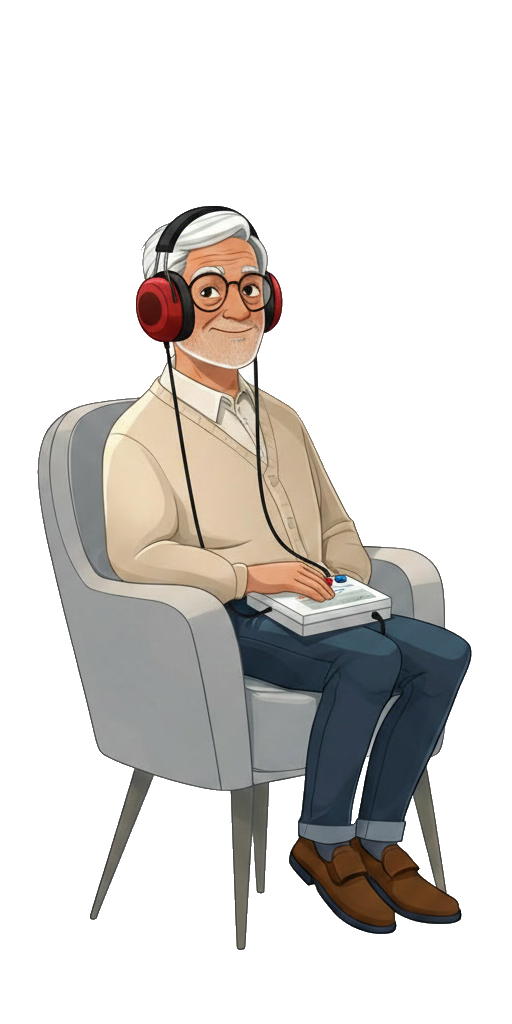
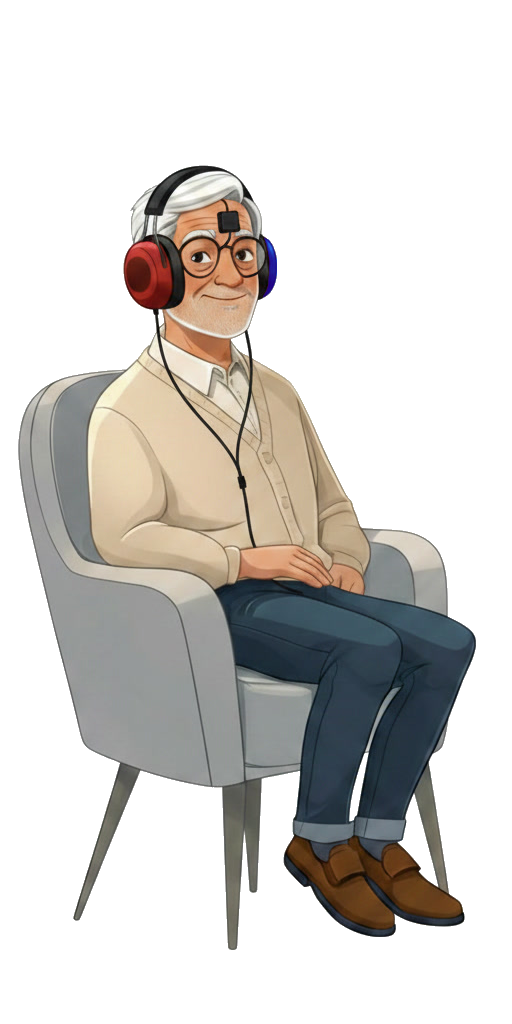
Force Bad Choice in Tuto
+ Michel Weber Image

Changed region(s): [[0.0312, 0.1562, 0.9375, 0.9375], [0.125, 0.75, 0.3125, 0.9062], [0.8438, 0.6875, 0.875, 0.75]]

diff --git a/Assets/Scripts/Managers/StepManager.cs b/Assets/Scripts/Managers/StepManager.cs
@@ -63,9 +63,9 @@ namespace Managers{
 
         // Enums
         private enum InteractionState{
-            Isreading,
-            Isanswering,
-            Iscorrection
+            IsReading,
+            IsAnswering,
+            IsCorrection
         };
 
         private InteractionState _interactionState;
@@ -79,6 +79,8 @@ namespace Managers{
 
         // Private class 
         private PatientData.PatientData _patientData;
+        private bool _badTuto;
+        private bool _restart;
 
         // Private variables
         private int _indexStep;
@@ -113,6 +115,11 @@ namespace Managers{
             _indexStep = 0; // reset current step to 0
             _currentDisplay = 0;
             _patientData = patient;
+            _badTuto = patient.firstName == "Michel" && GameManager.Instance.IsTutorialEnable;
+            _restart = false;
+            for (int i = 0; i < 4; i++) {
+                choiceButtons[i].GetComponentInChildren<ArrowAnimation>(true).Reset();
+            }
 
             ResetTriedState();
         }
@@ -134,7 +141,7 @@ namespace Managers{
 
             _step = currentStep;
 
-            _interactionState = InteractionState.Isreading;
+            _interactionState = InteractionState.IsReading;
 
             // Set bool to false each step
             _isDiagnosticValid = false;
@@ -153,7 +160,7 @@ namespace Managers{
                     // Display current step
 
                     displayList[_currentDisplay].SetActive(true);
-                    
+
                     UITutorialControler.Instance.TutorialMichel(0);
                     break;
                 case Step.WisperTest:
@@ -236,9 +243,9 @@ namespace Managers{
         // SET TEXT AND INTERACTION
         /// <summary>
         /// Updates the navigation buttons' interactability and text based on the current interaction state.
-        /// - In ISREADING state: disables the return button, enables the confirm/next button with text "Répondre".
-        /// - In ISANSWERING state: enables the return button, disables the confirm/next button with text "Suivant".
-        /// - In ISCORRECTION state: 
+        /// - In IsReading state: disables the return button, enables the confirm/next button with text "Répondre".
+        /// - In IsAnswering state: enables the return button, disables the confirm/next button with text "Suivant".
+        /// - In IsCorrection state: 
         ///     - Checks if the current answer is valid (diagnostic or action).
         ///     - If valid, enables confirm/next button and disables return button, setting confirm button text to "Suivant".
         ///     - If not valid, disables confirm/next button and enables return button.
@@ -246,21 +253,21 @@ namespace Managers{
         private void SetTextButtonsNavigation(){
             TextMeshProUGUI retourText = returnButton.GetComponentInChildren<TextMeshProUGUI>();
 
-            if (_interactionState == InteractionState.Isreading) {
+            if (_interactionState == InteractionState.IsReading) {
                 // update buttons and text
                 returnButton.interactable = false;
                 retourText.text = "Précédent";
                 confirmNextButton.interactable = true;
             }
 
-            if (_interactionState == InteractionState.Isanswering) {
+            if (_interactionState == InteractionState.IsAnswering) {
                 // Update button and text
                 returnButton.interactable = true;
                 retourText.text = "Précédent";
                 confirmNextButton.interactable = false;
             }
 
-            if (_interactionState == InteractionState.Iscorrection) {
+            if (_interactionState == InteractionState.IsCorrection) {
                 bool isValid = false;
                 switch (_answerState) {
                     case AnswerState.Diagnostic:
@@ -351,14 +358,24 @@ namespace Managers{
             for (int i = 0; i < max; i++) {
                 int buttonIndex = i;
                 int sourceIndex = state.ShuffledOrder[buttonIndex];
-                TextMeshProUGUI text = choiceButtons[i].GetComponentInChildren<TextMeshProUGUI>();
+                TextMeshProUGUI text = choiceButtons[i].GetComponentInChildren<TextMeshProUGUI>(true);
                 text.text = answerData[sourceIndex].answerText;
                 choiceButtons[i].onClick.RemoveAllListeners();
                 choiceButtons[i].GetComponent<AnswerButton>().Reset();
                 choiceButtons[i].onClick.AddListener(() => OnAnswerCorrect(answerData, buttonIndex));
-                choiceButtons[i].interactable = true;
+                choiceButtons[i].interactable = !_badTuto || text.text == "Je réalise une vidéo-otoscopie";
                 choiceButtons[i].enabled = true;
                 choiceButtons[i].gameObject.SetActive(true);
+
+                if (_badTuto && text.text == "Je réalise une vidéo-otoscopie") {
+                    if (_restart) {
+                        UITutorialControler.Instance.arrowAnimation.SuperShow();
+                        continue;
+                    }
+                    _restart = true;
+                    UITutorialControler.Instance.arrowAnimation =
+                        choiceButtons[i].GetComponentInChildren<ArrowAnimation>(true);
+                }
             }
         }
 
@@ -388,7 +405,7 @@ namespace Managers{
                     GameManager.Instance.GameStateManager.NextStep(_patientData.steps[_indexStep]);
                 }
             } else {
-                _interactionState = InteractionState.Isanswering;
+                _interactionState = InteractionState.IsAnswering;
                 ClearAllDisplay();
                 questionsDisplay.SetActive(true);
                 SetResponses();
@@ -403,7 +420,7 @@ namespace Managers{
         private void ButtonBack(){
             TipsManager.Instance.HideButton();
 
-            if (_interactionState == InteractionState.Iscorrection) {
+            if (_interactionState == InteractionState.IsCorrection) {
                 if (_answerState == AnswerState.Diagnostic) {
                     _isDiagnosticValid = false;
                 } else {
@@ -412,15 +429,15 @@ namespace Managers{
 
                 ClearAllDisplay();
 
-                _interactionState = InteractionState.Isanswering;
+                _interactionState = InteractionState.IsAnswering;
                 questionsDisplay.SetActive(true);
                 // Recreate buttons and re-apply previous incorrect choices for this step/phase.
                 SetResponses();
                 SetTextButtonsNavigation();
-            } else if (_interactionState == InteractionState.Isanswering) {
+            } else if (_interactionState == InteractionState.IsAnswering) {
                 ClearAllDisplay();
 
-                _interactionState = InteractionState.Isreading;
+                _interactionState = InteractionState.IsReading;
                 displayList[_currentDisplay].SetActive(true);
                 SetTextButtonsNavigation();
             }
@@ -459,6 +476,10 @@ namespace Managers{
         /// <param name="answerData">List of possible answers for the current phase.</param>
         /// <param name="index">The index of the selected answer button.</param>
         private void OnAnswerCorrect(List<AnswerData> answerData, int index){
+            for (int i = 0; i < 4; i++)
+                choiceButtons[i].GetComponentInChildren<ArrowAnimation>(true).SuperHide();
+            _badTuto = false;
+
             AnswerDisplayState state = GetCurrentAnswerDisplayState();
             int sourceIndex = GetSourceAnswerIndex(state, index);
             bool isDiagnosticAnswer = false;
@@ -560,7 +581,7 @@ namespace Managers{
         /// <param name="feedBackText">Feedback message to display ("Correct!" or "Incorrect!").</param>
         /// <param name="answerCorrect">Indicates if the selected answer was correct.</param>
         private void ShowAnswerDetail(AnswerData answer, string feedBackText, bool answerCorrect){
-            _interactionState = InteractionState.Iscorrection;
+            _interactionState = InteractionState.IsCorrection;
 
             // Clear images
             foreach (GameObject go in answerGameObjectSprites) {

diff --git a/Assets/Scripts/UI/TutorialContents/ArrowAnimation.cs b/Assets/Scripts/UI/TutorialContents/ArrowAnimation.cs
@@ -7,34 +7,49 @@ namespace UI.TutorialContents{
         private Vector2 _startPosition;
         private Vector3 _startScale;
 
-        private Coroutine _animationCoroutine;
+        private bool _stopAnimation;
+        private bool _superAnimation;
+        private bool _oneInit;
 
         private void Awake(){
+            if (_oneInit) return;
+            _oneInit = true;
+            
             _rectTransform = GetComponent<RectTransform>();
             _startPosition = _rectTransform.anchoredPosition;
             _startScale = _rectTransform.localScale;
 
             Hide();
         }
+        
+        public void Reset(){
+            Awake();
+            SuperHide();
+        }
 
         public void Show(){
+            _stopAnimation = false;
+            _rectTransform.anchoredPosition = _startPosition;
+            _rectTransform.localScale = _startScale;
             gameObject.SetActive(true);
-
-            if (_animationCoroutine == null) {
-                _animationCoroutine = StartCoroutine(AnimationCoroutine());
-            }
+            StartCoroutine(AnimationCoroutine());
         }
 
         public void Hide(){
-            if (_animationCoroutine != null) {
-                StopCoroutine(_animationCoroutine);
-                _animationCoroutine = null;
-            }
-
-            _rectTransform.anchoredPosition = _startPosition;
-            _rectTransform.localScale = _startScale;
-
+            if (_superAnimation) return;
+            
+            _stopAnimation = true;
             gameObject.SetActive(false);
+        }
+        
+        public void SuperShow(){
+            _superAnimation = true;
+            Show();
+        }
+
+        public void SuperHide(){
+            _superAnimation = false;
+            Hide();
         }
 
         private IEnumerator AnimationCoroutine(){
@@ -45,7 +60,7 @@ namespace UI.TutorialContents{
             float angle = transform.eulerAngles.z * Mathf.Deg2Rad;
             Vector2 direction = new Vector2(-Mathf.Sin(angle), Mathf.Cos(angle));
 
-            while (true) {
+            while (!_stopAnimation) {
                 float timer = 0f;
 
                 while (timer < duration) {

diff --git a/Assets/Scripts/UI/TutorialContents/UITutorialControler.cs b/Assets/Scripts/UI/TutorialContents/UITutorialControler.cs
@@ -14,6 +14,7 @@ namespace UI.TutorialContents{
         [SerializeField] private TMP_Text intituleText;
         [SerializeField] private TMP_Text text;
         [SerializeField] private List<ArrowAnimation> arrowsAnimation;
+        [HideInInspector] public ArrowAnimation arrowAnimation;
 
         private int _indexText;
         private string _nameStep;
@@ -54,6 +55,9 @@ namespace UI.TutorialContents{
                 if (_indexText == 0) {
                     _indexText = 1;
                     SetTexts(_nameStep, _indexText);
+                } else if (_indexText == 2) {
+                    _indexText = 14;
+                    SetTexts(_nameStep, _indexText);
                 } else if (_indexText == 3) {
                     _indexText = 12;
                     SetTexts(_nameStep, _indexText);
@@ -71,7 +75,6 @@ namespace UI.TutorialContents{
         }
 
         public void TutorialMichel(int index){
-            Debug.Log($"TEST {index}");
             if (GameManager.Instance.skipAssistante) return;
 
             // Uniquement si le joueur est dans le tutoriel (niveau 0).
@@ -87,9 +90,7 @@ namespace UI.TutorialContents{
 
             _nameStep = "Tutorial";
             _indexText = index;
-            Debug.Log($"pass ?");
             if (GameManager.Instance.SetTutorialUI()) {
-                Debug.Log($"YES");
                 SetTexts(_nameStep, index);
             }
         }
@@ -164,6 +165,9 @@ namespace UI.TutorialContents{
                             break;
                         case 12:
                             arrowsAnimation[9].Show();
+                            break;
+                        case 14:
+                            arrowAnimation.SuperShow();
                             break;
                     }
 
